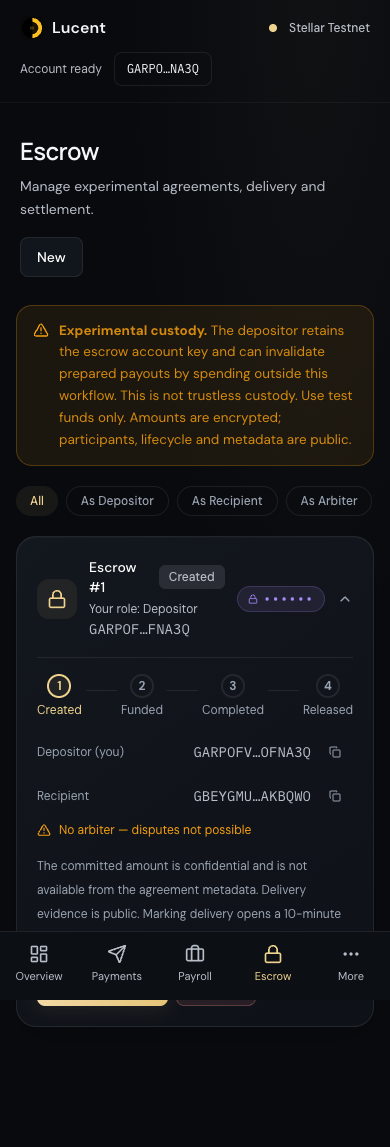
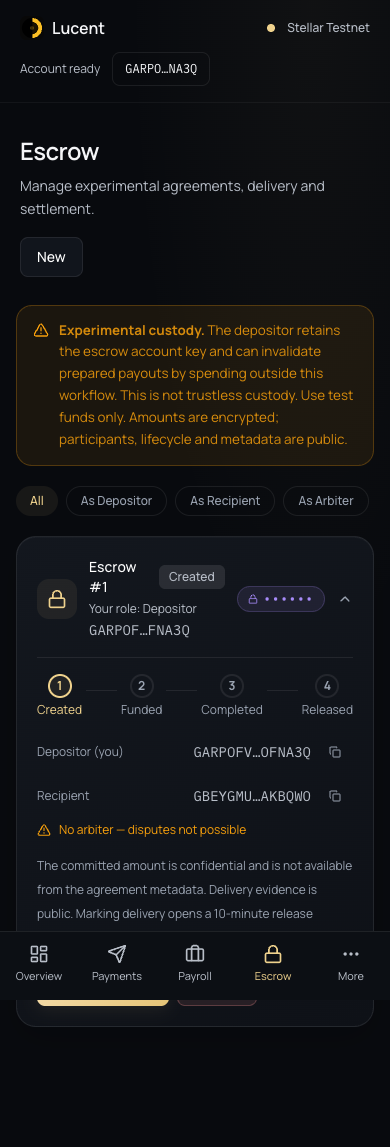
test(docs): verify responsive navigation and shared fonts across routes

diff --git a/docs/design/finance-console.md b/docs/design/finance-console.md
@@ -6,7 +6,7 @@ The app uses Next.js, React, Tailwind and the existing Lucent SDK. Wallet-derive
 
 Primary navigation: Overview, Payments, Payroll, Escrow. Supporting tools: Funding (existing /shield), Verification, Auditor, Settings (existing /profile), documentation and privacy controls. Existing URLs remain stable.
 
-The revised visual direction uses near-black surfaces, champagne gold, Manrope display typography and DM Sans body text. Floating navigation, softly lit panels and a custom orbital brand illustration replace the earlier grey console styling. Native decimal inputs, purposeful desktop widths and visible mobile navigation labels remain. Dialogs use native modal focus management. Browser zoom and reduced motion are supported.
+The revised visual direction uses near-black surfaces, champagne gold and a shared Manrope family for interface text and headings, with IBM Plex Mono for code and technical identifiers. Floating navigation, softly lit panels and a custom orbital brand illustration replace the earlier grey console styling. Native decimal inputs, purposeful desktop widths and visible mobile navigation labels remain. Dialogs use native modal focus management. Browser zoom and reduced motion are supported.
 
 ## Audit findings addressed
 
@@ -109,3 +109,16 @@ Motion includes slow decorative orbital rotation, pointer parallax, staggered wo
 The revised build and app typecheck passed. The existing mocked financial suite plus 25 connected layout/accessibility checks passed; all 65 production route/viewport checks passed with no detected violations, overflow or runtime errors. Added browser assertions verify normal orbital animation, pointer response and the reduced-motion override. These are UI checks, not new live Testnet settlement evidence.
 
 [New landing hero](./screenshots/landing-hero-1440.png)
+
+## Documentation and typography expansion
+
+The documentation now shares Lucent’s public navigation and visual shell. A canvas up to 1680px replaces the narrow article layout, with a sticky, grouped topic index, filtered topic navigation, mobile contents dialog, quick-entry cards, multi-column workflow guides, a protocol flow diagram and wider code/reference areas. Paragraph lengths remain bounded for readability; grids and reference material use the broader canvas.
+
+Content now includes a first Testnet payment walkthrough, local setup, reproducible build/test commands, an SDK registration example, deployment guidance and a recovery/troubleshooting reference. Outdated privacy, payroll and authorization statements were corrected against the implementation. No private keys were added. The SDK example was extracted and typechecked against the actual app and SDK.
+
+Manrope now supplies body text, headings, controls and financial amounts throughout the website, documentation and workspace. Monospace remains available for code, addresses, keys and technical data. The extra DM Sans font request was removed. The pre-existing generated development declaration was preserved rather than committed.
+
+Validation: production build and TypeScript checks passed. The mocked financial-flow suite and 25 connected layout/accessibility checks passed. Browser checks exercise topic filtering, desktop anchor navigation, mobile contents selection and the shared body/heading family across 13 routes. The final production sweep passed all 65 route/viewport combinations, including 320px docs code containment, with no detected accessibility violations, page overflow or runtime errors. Desktop topic filtering and anchor navigation, mobile topic selection and shared body/heading font checks all passed.
+
+- [Wide documentation preview](./screenshots/docs-1440.png)
+- [Mobile documentation preview](./screenshots/docs-390.png)
